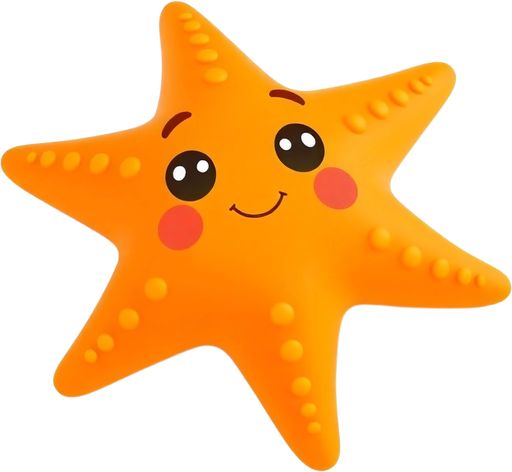
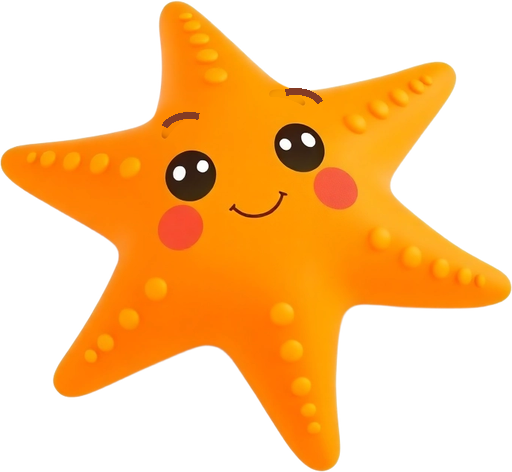
Kind faces for the jellyfish, seahorse, starfish and urchin (soft raised brows, bead eyes that blink and look); eyes made only while shown, within a tier's distance, squeezing shut without lids on basic

Changed region(s): [[0.5, 0.178, 0.625, 0.2373], [0.2812, 0.2076, 0.4062, 0.2966]]

diff --git a/game/rig/RigEyes.js b/game/rig/RigEyes.js
@@ -1,4 +1,7 @@
-import { Gaze } from './eyes.js';
+import { Gaze, EYES } from './eyes.js';
+import { QUALITY } from '../quality.js';
+
+const EYES_REST = EYES.restLid;
 
 // Living eyes over the painted ones (user: "eye movement ... rigged characters"; "wire whole rigs"):
 // per painted eye a white (covering the painted iris), an iris with its pupil that looks around
@@ -6,6 +9,7 @@ import { Gaze } from './eyes.js';
 // (three shared textures; iris and lid take the character's colours as tints), placed each frame
 // by the rig at the eye's place on its posed body. A profile lists its eyes per look:
 //   eyes: { iris: 0xRRGGBB, lid: 0xRRGGBB, at: [{ x, y, rx, ry }] }   (picture px: middle, half sizes)
+//   bead: 0xRRGGBB instead of iris: a glossy dark bead eye (no white), as painted on the starfish and urchin
 // Only eyes that face the viewer: one on the silhouette's edge stays painted.
 
 export const RIG_EYES = {
@@ -16,7 +20,9 @@ export const RIG_EYES = {
     travel: 0.42,       // how far the iris moves at full gaze, share of the half size
     lids: 8,            // frames of the lid, open .. closed
     edgeOn: [0.25, 0.55],   // |cos yaw| from which the eyes appear (hidden edge-on in a turn)
-    look: 0.35          // gaze target scale: px off / eye radius px * this = eye radii (as the viewer)
+    look: 0.35,         // gaze target scale: px off / eye radius px * this = eye radii (as the viewer)
+    beadTravel: 0.12,   // a bead eye looks by shifting a little within its place
+    beadShine: [0.42, 0.18]   // its two highlights, share of its radius
 };
 
 /** The shared eye textures (once): rig_eye_white, rig_eye_iris (grey: tinted), rig_eye_lid (frames 0..lids-1, white: tinted). */
@@ -64,36 +70,58 @@ function ensureTextures(scene, E = RIG_EYES) {
 }
 
 export default class RigEyes {
-    /** @param spec  the look's `eyes` ({ iris, lid, at }); @param seed  makes each character blink at its own times */
+    /** @param spec  the look's `eyes` ({ iris | bead, lid, at }); @param seed  makes each character blink at its own times */
     constructor(scene, spec, seed = 1, E = RIG_EYES) {
         ensureTextures(scene, E);
+        this.scene = scene;
         this.E = E;
         this.spec = spec;
-        this.eyes = spec.at.map((at, i) => ({
-            at,
-            white: scene.add.image(0, 0, 'rig_eye_white').setVisible(false),
-            iris: scene.add.image(0, 0, 'rig_eye_iris').setTint(spec.iris).setVisible(false),
-            pupil: scene.add.image(0, 0, 'rig_eye_white').setTint(0x05080c).setVisible(false),
-            shine: scene.add.image(0, 0, 'rig_eye_white').setVisible(false),
-            lid: scene.add.image(0, 0, 'rig_eye_lid', 0).setTint(spec.lid).setVisible(false),
-            gaze: new Gaze(seed * 13 + i * 7)
-        }));
-        this.parts = this.eyes.flatMap(e => [e.white, e.iris, e.pupil, e.shine, e.lid]);
+        this.depth = 0;
+        this.eyes = spec.at.map((at, i) => ({ at, gaze: new Gaze(seed * 13 + i * 7) }));
+        this.parts = null;       // made while shown, given back when not (an eye far off or out of view costs nothing)
     }
 
-    setDepth(d) { this.parts.forEach((p, i) => p.setDepth(d + i * 0.00001)); return this; }
+    /** The eye pictures, made when the eyes are first shown again. */
+    make() {
+        const s = this.scene, spec = this.spec, bead = spec.bead !== undefined;
+        for (const e of this.eyes) {
+            e.white = s.add.image(0, 0, 'rig_eye_white');
+            if (bead) e.white.setTint(spec.bead);
+            else {
+                e.iris = s.add.image(0, 0, 'rig_eye_iris').setTint(spec.iris);
+                e.pupil = s.add.image(0, 0, 'rig_eye_white').setTint(0x05080c);
+            }
+            e.shine = s.add.image(0, 0, 'rig_eye_white');
+            if (bead) e.shine2 = s.add.image(0, 0, 'rig_eye_white');
+            e.lid = s.add.image(0, 0, 'rig_eye_lid', 0).setTint(spec.lid);
+        }
+        this.parts = this.eyes.flatMap(e => [e.white, e.iris, e.pupil, e.shine, e.shine2, e.lid].filter(Boolean));
+        for (const p of this.parts) p.noCaustics = true;      // the body around them carries the net; on an eye it reads as a stain
+        this.setDepth(this.depth);
+    }
 
-    hide() { for (const p of this.parts) p.setVisible(false); }
+    setDepth(d) { this.depth = d; this.parts?.forEach((p, i) => p.setDepth(d + i * 0.00001)); return this; }
+
+    /** Not shown: the pictures go (the gaze and blinking keep their state). */
+    hide() {
+        if (!this.parts) return;
+        for (const p of this.parts) p.destroy();
+        this.parts = null;
+    }
 
     /**
      * Place and animate the eyes. `place(at, out)` writes where the eye's middle is on screen
      * (out.x, out.y) and its scale there (out.s); `view` = { rotation, facing, alpha, edge (|cos yaw|) },
-     * `look` = the world point to look at (or null: straight ahead), `dt` seconds.
+     * `look` = the world point to look at (or null: straight ahead), `dt` seconds. The quality tier
+     * decides how far from the view's middle eyes live (QUALITY eyes) and whether lids blink (lids).
      */
     update(place, view, look, dt, opts) {
         const E = this.E, show = smooth(E.edgeOn[0], E.edgeOn[1], view.edge) * view.alpha;
-        if (show <= 0.01) { this.hide(); return; }
-        const cr = Math.cos(view.rotation), sr = Math.sin(view.rotation);
+        const q = QUALITY[this.scene.quality?.tier ?? 'high'], mid = this.scene.cameras.main.midPoint;
+        place(this.eyes[0].at, P);
+        if (show <= 0.01 || Math.hypot(P.x - mid.x, P.y - mid.y) > q.eyes) { this.hide(); return; }
+        if (!this.parts) this.make();
+        const cr = Math.cos(view.rotation), sr = Math.sin(view.rotation), W = E.tex, bead = this.spec.bead !== undefined;
         for (const e of this.eyes) {
             place(e.at, P);
             const rx = e.at.rx * P.s, ry = e.at.ry * P.s, r = Math.min(rx, ry);
@@ -105,20 +133,31 @@ export default class RigEyes {
                 tx = ax * view.facing / r * E.look; ty = -ay / r * E.look;
             }
             const g = e.gaze.update(dt, { x: tx, y: ty }, opts);
-            const ox = g.x * E.travel * rx * view.facing, oy = -g.y * E.travel * ry;
-            const ix = P.x + ox * cr - oy * sr, iy = P.y + ox * sr + oy * cr;
-            const ir = r * E.iris, pr = ir * E.pupil * g.pupil;
-            const W = E.tex;
-            e.white.setPosition(P.x, P.y).setRotation(view.rotation).setScale(rx * 2 * E.cover / W, ry * 2 * E.cover / W);
-            e.iris.setPosition(ix, iy).setRotation(view.rotation).setScale(ir * 2 / W);
-            e.pupil.setPosition(ix, iy).setScale(pr * 2 / W);
-            e.shine.setPosition(ix - ir * 0.35 * view.facing, iy - ir * 0.4).setScale(ir * 0.55 / W);
-            e.lid.setFrame(Math.round(g.lid * (E.lids - 1))).setPosition(P.x, P.y).setRotation(view.rotation).setScale(rx * 2 * E.cover / W, ry * 2 * E.cover / W);
-            for (const p of [e.white, e.iris, e.pupil, e.shine, e.lid]) p.setVisible(true).setAlpha(show);
+            // Lids blink; without them (lowest tier) the white squeezes shut instead.
+            const shut = q.lids ? 1 : 1 - Math.max(0, (g.lid - EYES_REST) / (1 - EYES_REST));
+            const cover = bead ? 1 : E.cover;
+            const travel = bead ? E.beadTravel : E.travel;
+            const ox = g.x * travel * rx * view.facing, oy = -g.y * travel * ry;
+            const ex = bead ? P.x + ox * cr - oy * sr : P.x, ey = bead ? P.y + ox * sr + oy * cr : P.y;
+            e.white.setPosition(ex, ey).setRotation(view.rotation).setScale(rx * 2 * cover / W, ry * 2 * cover * shut / W);
+            if (bead) {
+                // A bead eye: dark and glossy, it looks by shifting a little; two highlights.
+                e.shine.setPosition(ex - r * 0.3 * view.facing, ey - r * 0.32).setScale(r * E.beadShine[0] * 2 * shut / W);
+                e.shine2.setPosition(ex + r * 0.28 * view.facing, ey + r * 0.25).setScale(r * E.beadShine[1] * 2 * shut / W);
+            } else {
+                const ix = P.x + ox * cr - oy * sr, iy = P.y + ox * sr + oy * cr;
+                const ir = r * E.iris, pr = ir * E.pupil * g.pupil * (this.spec.pupil ?? 1);
+                e.iris.setPosition(ix, iy).setRotation(view.rotation).setScale(ir * 2 / W, ir * 2 * shut / W);
+                e.pupil.setPosition(ix, iy).setScale(pr * 2 / W, pr * 2 * shut / W);
+                e.shine.setPosition(ix - ir * 0.35 * view.facing, iy - ir * 0.4).setScale(ir * 0.55 * shut / W);
+            }
+            e.lid.setVisible(!!q.lids);
+            if (q.lids) e.lid.setFrame(Math.round(g.lid * (E.lids - 1))).setPosition(P.x, P.y).setRotation(view.rotation).setScale(rx * 2 * E.cover / W, ry * 2 * E.cover / W);
         }
+        for (const p of this.parts) p.setAlpha(show);
     }
 
-    destroy() { for (const p of this.parts) p.destroy(); }
+    destroy() { this.hide(); }
 }
 
 const P = { x: 0, y: 0, s: 1 };

diff --git a/game/quality.js b/game/quality.js
@@ -11,11 +11,12 @@ export const QUALITY = {
     // glow: share of the soft glow pictures that are drawn (fish light, deep glow, coin glows); far: share of the far scenery's single objects.
     // shoalsAround: how many roaming shoals are kept about the view; sheen: share of the rainbow sheen on the fish's rigs (0 = not worked out);
     // resolution: share of the game's px the picture is drawn at, each way (renderScale.js): the graphics chip's work goes with its square.
+    // eyes: px from the view's middle within which rigs show living eyes (beyond: the painted eye); lids: 1 = blinking lids, 0 = the eye's white squeezes shut instead.
     // (A layer reads its share as QUALITY[scene.quality.tier].glow and the like, when it builds or each frame.)
-    basic: { caustics: 0, particles: 0.18, shoals: 0.25, shoalsAround: 1, simEvery: 4, midEvery: 8, glow: 0, far: 0.2, sheen: 0, resolution: 0.5 },
-    low: { caustics: 0, particles: 0.35, shoals: 0.45, shoalsAround: 2, simEvery: 3, midEvery: 5, glow: 0, far: 0.4, sheen: 1, resolution: 0.67 },
-    medium: { caustics: 0.7, particles: 0.6, shoals: 0.7, shoalsAround: 2, simEvery: 2, midEvery: 4, glow: 1, far: 0.7, sheen: 1, resolution: 0.8 },
-    high: { caustics: 1, particles: 1, shoals: 1, shoalsAround: 2, simEvery: 2, midEvery: 3, glow: 1, far: 1, sheen: 1, resolution: 1 },
+    basic: { caustics: 0, particles: 0.18, shoals: 0.25, shoalsAround: 1, simEvery: 4, midEvery: 8, glow: 0, far: 0.2, sheen: 0, resolution: 0.5, eyes: 600, lids: 0 },
+    low: { caustics: 0, particles: 0.35, shoals: 0.45, shoalsAround: 2, simEvery: 3, midEvery: 5, glow: 0, far: 0.4, sheen: 1, resolution: 0.67, eyes: 1000, lids: 1 },
+    medium: { caustics: 0.7, particles: 0.6, shoals: 0.7, shoalsAround: 2, simEvery: 2, midEvery: 4, glow: 1, far: 0.7, sheen: 1, resolution: 0.8, eyes: Infinity, lids: 1 },
+    high: { caustics: 1, particles: 1, shoals: 1, shoalsAround: 2, simEvery: 2, midEvery: 3, glow: 1, far: 1, sheen: 1, resolution: 1, eyes: Infinity, lids: 1 },
     tune: {
         windowS: 2,       // the frame rate is the average over this many seconds
         lowFps: 30,       // under this for `lowS` seconds: a tier down

diff --git a/game/rig/faces.js b/game/rig/faces.js
@@ -4,6 +4,7 @@
 // creature all look alive the same way. Picture px of the full picture:
 //   eyes: { iris, lid (colours 0xRRGGBB), at: [{ x, y, rx, ry }] }  middle and half sizes of each eye
 //         that faces the viewer (one on the silhouette's edge stays painted)
+//         (bead: 0xRRGGBB instead of iris: a glossy bead eye; pupil: pupil size factor, bigger reads kinder)
 //   mouth: { x, y }
 export const FACES = {
     puffer_normal: { eyes: { iris: 0x3f9fb0, lid: 0xeee27a, at: [{ x: 372, y: 117, rx: 50, ry: 52 }] }, mouth: { x: 470, y: 172 } },
@@ -13,7 +14,11 @@ export const FACES = {
     player_firefish: { eyes: { iris: 0x2a78c8, lid: 0xf4a24a, at: [{ x: 402, y: 233, rx: 41, ry: 41 }] }, mouth: { x: 448, y: 292 } },
     friend_turtle: { eyes: { iris: 0x2a86c8, lid: 0xc9d65a, at: [{ x: 390, y: 63, rx: 38, ry: 38 }] }, mouth: { x: 432, y: 132 } },
     friend_parrotfish: { eyes: { iris: 0x6a2c22, lid: 0xe26a86, at: [{ x: 404, y: 131, rx: 38, ry: 40 }] }, mouth: { x: 470, y: 222 } },
-    friend_grouper: { eyes: { iris: 0xc8781e, lid: 0xf0a050, at: [{ x: 378, y: 148, rx: 33, ry: 36 }] }, mouth: { x: 470, y: 215 } }
+    friend_grouper: { eyes: { iris: 0xc8781e, lid: 0xf0a050, at: [{ x: 378, y: 148, rx: 33, ry: 36 }] }, mouth: { x: 470, y: 215 } },
+    friend_jellyfish: { eyes: { iris: 0x2a6fd0, lid: 0xf3d8ef, pupil: 1.15, at: [{ x: 70, y: 158, rx: 21, ry: 23 }, { x: 151, y: 117, rx: 25, ry: 27 }] }, mouth: { x: 125, y: 170 } },
+    friend_seahorse: { eyes: { iris: 0x2a90c0, lid: 0xf7c23a, pupil: 1.1, at: [{ x: 192, y: 138, rx: 30, ry: 32 }] }, mouth: { x: 300, y: 158 } },
+    friend_starfish: { eyes: { bead: 0x1c120e, lid: 0xff9a2a, at: [{ x: 190, y: 175, rx: 26, ry: 26 }, { x: 300, y: 147, rx: 26, ry: 26 }] } },
+    urchin: { eyes: { bead: 0x16101c, lid: 0xb898e0, at: [{ x: 196, y: 211, rx: 27, ry: 27 }, { x: 316, y: 211, rx: 27, ry: 27 }] } }
 };
 
 /** The face of a look: its own (`face` in a profile's state) or its picture's. */

diff --git a/scripts/fx/kind_brows.py b/scripts/fx/kind_brows.py
@@ -1,0 +1,46 @@
+# Kind brows (img/friend_starfish.png, img/urchin.png): the painted brows slanted down toward the
+# middle read as angry (playtest: "starfish and urchin look mean; friends must look kind"). Each brow
+# is painted over with the skin around it and replaced by a soft arc raised at the inner end.
+# Reads the untouched originals (kept outside public/).
+# usage: python -I scripts/fx/kind_brows.py <originals dir> <repo root>
+import sys, os
+import numpy as np
+from PIL import Image, ImageDraw, ImageFilter
+
+SRC, ROOT = sys.argv[1], sys.argv[2]
+# Per picture: brow boxes to clear (x0, y0, x1, y1), and the new arcs (box of the ellipse, start and end angle, width).
+BROWS = {
+    'friend_starfish': {'clear': [(152, 104, 200, 142), (262, 82, 312, 110)],
+                        'arcs': [((160, 112, 218, 150), 200, 290, 7), ((266, 88, 324, 126), 250, 340, 7)],
+                        'ink': (122, 42, 18)},
+    'urchin': {'clear': [(158, 120, 216, 170), (294, 118, 352, 168)],
+               'arcs': [((166, 132, 226, 176), 200, 290, 8), ((286, 132, 346, 176), 250, 340, 8)],
+               'ink': (70, 30, 92)},
+}
+
+def ring_colour(a, box, pad=10):
+    """The skin right around a box (median of a frame of pixels), so the patch matches."""
+    x0, y0, x1, y1 = box
+    X0, Y0, X1, Y1 = max(0, x0 - pad), max(0, y0 - pad), min(a.shape[1], x1 + pad), min(a.shape[0], y1 + pad)
+    m = np.zeros(a.shape[:2], bool); m[Y0:Y1, X0:X1] = True; m[y0:y1, x0:x1] = False
+    return np.median(a[m][:, :3], axis=0)
+
+for name, spec in BROWS.items():
+    img = Image.open(os.path.join(SRC, name + '.png')).convert('RGBA')
+    a = np.asarray(img).astype(np.float32)
+    for box in spec['clear']:
+        col = ring_colour(a, box)
+        x0, y0, x1, y1 = box
+        patch = Image.new('L', img.size, 0)
+        ImageDraw.Draw(patch).ellipse(box, fill=255)
+        m = np.asarray(patch.filter(ImageFilter.GaussianBlur(4))).astype(np.float32)[..., None] / 255
+        # The skin colour with a little of the original's shading kept, so the patch is not flat.
+        lum = a[..., :3].mean(-1, keepdims=True)
+        shade = np.clip(lum / max(lum[y0:y1, x0:x1].mean(), 1), 0.85, 1.1)
+        a[..., :3] = a[..., :3] * (1 - m) + (col * (0.9 + 0.1 * shade)) * m
+    out = Image.fromarray(np.clip(a, 0, 255).astype(np.uint8), 'RGBA')
+    d = ImageDraw.Draw(out)
+    for box, s, e, w in spec['arcs']:
+        d.arc(box, s, e, fill=spec['ink'] + (235,), width=w)
+    out.save(os.path.join(ROOT, 'public', 'img', name + '.png'), optimize=True)
+    print(name, out.size)
